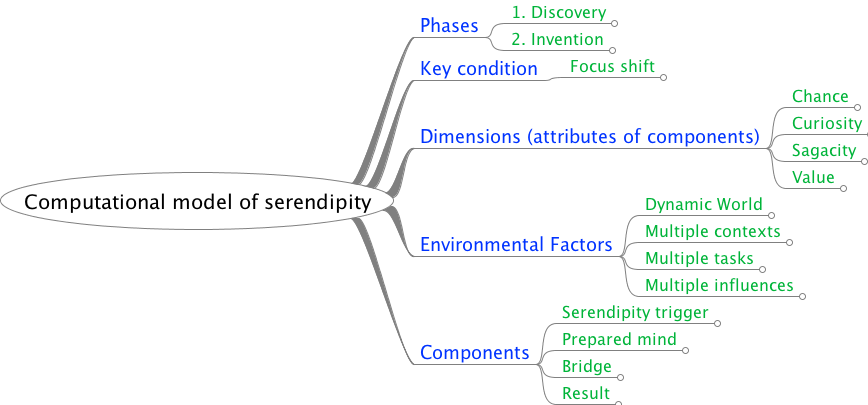
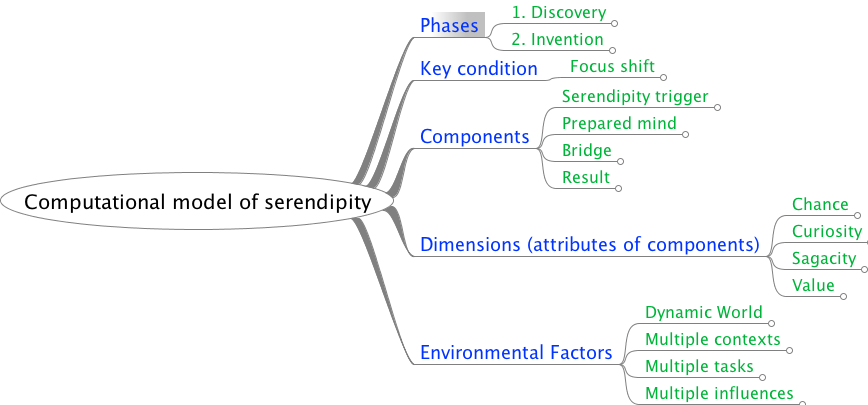
Thinking about the model as applied to case studies - new table suggested

diff --git a/figures/model-diagram/mm-model-diagram.mm b/figures/model-diagram/mm-model-diagram.mm
@@ -1,19 +1,19 @@
 <map version="1.0.1">
 <!-- To view this file, download free mind mapping software FreeMind from http://freemind.sourceforge.net -->
-<node COLOR="#000000" CREATED="1427368594535" ID="ID_364760231" MODIFIED="1427370880198" TEXT="Computational model of serendipity">
+<node COLOR="#000000" CREATED="1427368594535" ID="ID_364760231" MODIFIED="1427374772645" TEXT="Computational model of serendipity">
 <font NAME="SansSerif" SIZE="20"/>
 <hook NAME="accessories/plugins/AutomaticLayout.properties"/>
-<node COLOR="#0033ff" CREATED="1427368645022" ID="ID_1763127882" MODIFIED="1427370891360" POSITION="right" TEXT="Phases">
+<node COLOR="#0033ff" CREATED="1427368645022" ID="ID_1763127882" MODIFIED="1427374771070" POSITION="right" TEXT="Phases">
 <edge STYLE="sharp_bezier" WIDTH="8"/>
 <font NAME="SansSerif" SIZE="18"/>
-<node COLOR="#00b439" CREATED="1427368657607" ID="ID_892080896" MODIFIED="1427370897973" TEXT="1. Discovery">
+<node COLOR="#00b439" CREATED="1427368657607" FOLDED="true" ID="ID_892080896" MODIFIED="1427374741959" TEXT="1. Discovery">
 <edge STYLE="bezier" WIDTH="thin"/>
 <font NAME="SansSerif" SIZE="16"/>
 <node COLOR="#990000" CREATED="1427368679498" ID="ID_883697391" MODIFIED="1427370123744" TEXT="Within a system with a prepared mind, a previously uninteresting serendipity trigger arises due to circumstances that the system does not control, and is classified as interesting by the system">
 <font NAME="SansSerif" SIZE="14"/>
 </node>
 </node>
-<node COLOR="#00b439" CREATED="1427368661125" ID="ID_205720238" MODIFIED="1427370897976" TEXT="2. Invention">
+<node COLOR="#00b439" CREATED="1427368661125" FOLDED="true" ID="ID_205720238" MODIFIED="1427374741470" TEXT="2. Invention">
 <edge STYLE="bezier" WIDTH="thin"/>
 <font NAME="SansSerif" SIZE="16"/>
 <node COLOR="#990000" CREATED="1427368692002" ID="ID_679213768" MODIFIED="1427370123755" TEXT="The system, by subsequently processing this trigger and background information together with relevant reasoning, networking, or experimental techniques, obtains a novel result that is evaluated favourably by the system or by external sources.">
@@ -21,10 +21,10 @@
 </node>
 </node>
 </node>
-<node COLOR="#0033ff" CREATED="1427368737682" ID="ID_1891987818" MODIFIED="1427370891361" POSITION="right" TEXT="Key condition">
+<node COLOR="#0033ff" CREATED="1427368737682" ID="ID_1891987818" MODIFIED="1427374740871" POSITION="right" TEXT="Key condition">
 <edge STYLE="sharp_bezier" WIDTH="8"/>
 <font NAME="SansSerif" SIZE="18"/>
-<node COLOR="#00b439" CREATED="1427368746848" ID="ID_615978599" MODIFIED="1427370897979" TEXT="Focus shift">
+<node COLOR="#00b439" CREATED="1427368746848" FOLDED="true" ID="ID_615978599" MODIFIED="1427374742607" TEXT="Focus shift">
 <edge STYLE="bezier" WIDTH="thin"/>
 <font NAME="SansSerif" SIZE="16"/>
 <node COLOR="#990000" CREATED="1427369497785" ID="ID_1348552907" MODIFIED="1427370123765" TEXT="a reassessment or reevaluation -- a \emph{focus shift} in which something that was previously uninteresting, of neutral, or even negative value, becomes interesting.">
@@ -32,7 +32,39 @@
 </node>
 </node>
 </node>
-<node COLOR="#0033ff" CREATED="1427368709710" ID="ID_563045342" MODIFIED="1427370891364" POSITION="right">
+<node COLOR="#0033ff" CREATED="1427369178393" ID="ID_1382365722" MODIFIED="1427374744353" POSITION="right" TEXT="Components">
+<edge STYLE="sharp_bezier" WIDTH="8"/>
+<font NAME="SansSerif" SIZE="18"/>
+<node COLOR="#00b439" CREATED="1427368740895" FOLDED="true" ID="ID_486420315" MODIFIED="1427374745212" TEXT="Serendipity trigger">
+<edge STYLE="bezier" WIDTH="thin"/>
+<font NAME="SansSerif" SIZE="16"/>
+<node COLOR="#990000" CREATED="1427369610358" ID="ID_1984392591" MODIFIED="1427370123831" TEXT="The trigger does not directly cause the outcome, but rather, inspires a new insight.  ">
+<font NAME="SansSerif" SIZE="14"/>
+</node>
+</node>
+<node COLOR="#00b439" CREATED="1427368791183" FOLDED="true" ID="ID_1983960627" MODIFIED="1427374745685" TEXT="Prepared mind">
+<edge STYLE="bezier" WIDTH="thin"/>
+<font NAME="SansSerif" SIZE="16"/>
+<node COLOR="#990000" CREATED="1427369624666" ID="ID_647400017" MODIFIED="1427370123833" TEXT="Creating an atmosphere that is prepared for serendipity">
+<font NAME="SansSerif" SIZE="14"/>
+</node>
+</node>
+<node COLOR="#00b439" CREATED="1427368798018" FOLDED="true" ID="ID_290478461" MODIFIED="1427374746269" TEXT="Bridge">
+<edge STYLE="bezier" WIDTH="thin"/>
+<font NAME="SansSerif" SIZE="16"/>
+<node COLOR="#990000" CREATED="1427369512214" ID="ID_223257269" MODIFIED="1427370123834" TEXT="Building a bridge to take us from the focus shift occurrence to a valuable result">
+<font NAME="SansSerif" SIZE="14"/>
+</node>
+</node>
+<node COLOR="#00b439" CREATED="1427368801269" FOLDED="true" ID="ID_1993966731" MODIFIED="1427374746622" TEXT="Result">
+<edge STYLE="bezier" WIDTH="thin"/>
+<font NAME="SansSerif" SIZE="16"/>
+<node COLOR="#990000" CREATED="1427369568148" ID="ID_1649816839" MODIFIED="1427370123836" TEXT="The results that are produced through serendipity">
+<font NAME="SansSerif" SIZE="14"/>
+</node>
+</node>
+</node>
+<node COLOR="#0033ff" CREATED="1427368709710" ID="ID_563045342" MODIFIED="1427374747155" POSITION="right">
 <richcontent TYPE="NODE"><html>
   <head>
     
@@ -46,14 +78,14 @@
 </richcontent>
 <edge STYLE="sharp_bezier" WIDTH="8"/>
 <font NAME="SansSerif" SIZE="18"/>
-<node COLOR="#00b439" CREATED="1427368876272" ID="ID_661232882" MODIFIED="1427370897980" TEXT="Chance">
+<node COLOR="#00b439" CREATED="1427368876272" FOLDED="true" ID="ID_661232882" MODIFIED="1427374751573" TEXT="Chance">
 <edge STYLE="bezier" WIDTH="thin"/>
 <font NAME="SansSerif" SIZE="16"/>
 <node COLOR="#990000" CREATED="1427369739097" ID="ID_698673658" MODIFIED="1427370123775" TEXT="How likely was the trigger to appear?">
 <font NAME="SansSerif" SIZE="14"/>
 </node>
 </node>
-<node COLOR="#00b439" CREATED="1427368811666" ID="ID_568386286" MODIFIED="1427370897983" TEXT="Curiosity">
+<node COLOR="#00b439" CREATED="1427368811666" FOLDED="true" ID="ID_568386286" MODIFIED="1427374748460" TEXT="Curiosity">
 <edge STYLE="bezier" WIDTH="thin"/>
 <font NAME="SansSerif" SIZE="16"/>
 <node COLOR="#990000" CREATED="1427369743751" ID="ID_1080625648" MODIFIED="1427370123779">
@@ -71,14 +103,14 @@
 <font NAME="SansSerif" SIZE="14"/>
 </node>
 </node>
-<node COLOR="#00b439" CREATED="1427368840137" ID="ID_710011933" MODIFIED="1427370897984" TEXT="Sagacity">
+<node COLOR="#00b439" CREATED="1427368840137" FOLDED="true" ID="ID_710011933" MODIFIED="1427374752829" TEXT="Sagacity">
 <edge STYLE="bezier" WIDTH="thin"/>
 <font NAME="SansSerif" SIZE="16"/>
 <node COLOR="#990000" CREATED="1427369757879" ID="ID_1442391053" MODIFIED="1427370123782" TEXT="How likely was it that the interesting trigger would be turned into a result?">
 <font NAME="SansSerif" SIZE="14"/>
 </node>
 </node>
-<node COLOR="#00b439" CREATED="1427368889659" ID="ID_1513225833" MODIFIED="1427370897985" TEXT="Value">
+<node COLOR="#00b439" CREATED="1427368889659" FOLDED="true" ID="ID_1513225833" MODIFIED="1427374753509" TEXT="Value">
 <edge STYLE="bezier" WIDTH="thin"/>
 <font NAME="SansSerif" SIZE="16"/>
 <node COLOR="#990000" CREATED="1427369793028" ID="ID_859187980" MODIFIED="1427370123784" TEXT="How valuable is the result that is ultimately produced?">
@@ -86,10 +118,10 @@
 </node>
 </node>
 </node>
-<node COLOR="#0033ff" CREATED="1427368715182" ID="ID_279544910" MODIFIED="1427370891367" POSITION="right" TEXT="Environmental Factors">
+<node COLOR="#0033ff" CREATED="1427368715182" ID="ID_279544910" MODIFIED="1427374755052" POSITION="right" TEXT="Environmental Factors">
 <edge STYLE="sharp_bezier" WIDTH="8"/>
 <font NAME="SansSerif" SIZE="18"/>
-<node COLOR="#00b439" CREATED="1427368847612" ID="ID_1712639855" MODIFIED="1427370897989" TEXT="Dynamic World">
+<node COLOR="#00b439" CREATED="1427368847612" FOLDED="true" ID="ID_1712639855" MODIFIED="1427374756549" TEXT="Dynamic World">
 <edge STYLE="bezier" WIDTH="thin"/>
 <font NAME="SansSerif" SIZE="16"/>
 <node COLOR="#990000" CREATED="1427369822301" ID="ID_1679175939" MODIFIED="1427370123793">
@@ -107,56 +139,24 @@
 <font NAME="SansSerif" SIZE="14"/>
 </node>
 </node>
-<node COLOR="#00b439" CREATED="1427368852359" ID="ID_781426624" MODIFIED="1427370897992" TEXT="Multiple contexts">
+<node COLOR="#00b439" CREATED="1427368852359" FOLDED="true" ID="ID_781426624" MODIFIED="1427374757276" TEXT="Multiple contexts">
 <edge STYLE="bezier" WIDTH="thin"/>
 <font NAME="SansSerif" SIZE="16"/>
 <node COLOR="#990000" CREATED="1427369873024" ID="ID_1544375421" MODIFIED="1427370123811" TEXT="One of the dynamical aspects at play may be the discoverer going back and forth between different contexts, with different stimuli.  ">
 <font NAME="SansSerif" SIZE="14"/>
 </node>
 </node>
-<node COLOR="#00b439" CREATED="1427368864221" ID="ID_1737264918" MODIFIED="1427370897994" TEXT="Multiple tasks">
+<node COLOR="#00b439" CREATED="1427368864221" FOLDED="true" ID="ID_1737264918" MODIFIED="1427374766079" TEXT="Multiple tasks">
 <edge STYLE="bezier" WIDTH="thin"/>
 <font NAME="SansSerif" SIZE="16"/>
 <node COLOR="#990000" CREATED="1427369899053" ID="ID_127969345" MODIFIED="1427370123822" TEXT="Even within what would typically be seen as a single context, a discoverer may take on multiple tasks that segment the context into sub-contexts, or that cause the investigator to look in more than one direction. The tasks may have an interesting overlap, or they may point to a gap in knowledge.">
 <font NAME="SansSerif" SIZE="14"/>
 </node>
 </node>
-<node COLOR="#00b439" CREATED="1427368867172" ID="ID_267511179" MODIFIED="1427370897995" TEXT="Multiple influences">
+<node COLOR="#00b439" CREATED="1427368867172" FOLDED="true" ID="ID_267511179" MODIFIED="1427374766709" TEXT="Multiple influences">
 <edge STYLE="bezier" WIDTH="thin"/>
 <font NAME="SansSerif" SIZE="16"/>
 <node COLOR="#990000" CREATED="1427370072107" ID="ID_1031734537" MODIFIED="1427370123828" TEXT="The ``bridge&apos;&apos; from trigger to result is often found through a social network.">
-<font NAME="SansSerif" SIZE="14"/>
-</node>
-</node>
-</node>
-<node COLOR="#0033ff" CREATED="1427369178393" ID="ID_1382365722" MODIFIED="1427370891370" POSITION="right" TEXT="Components">
-<edge STYLE="sharp_bezier" WIDTH="8"/>
-<font NAME="SansSerif" SIZE="18"/>
-<node COLOR="#00b439" CREATED="1427368740895" ID="ID_486420315" MODIFIED="1427370897996" TEXT="Serendipity trigger">
-<edge STYLE="bezier" WIDTH="thin"/>
-<font NAME="SansSerif" SIZE="16"/>
-<node COLOR="#990000" CREATED="1427369610358" ID="ID_1984392591" MODIFIED="1427370123831" TEXT="The trigger does not directly cause the outcome, but rather, inspires a new insight.  ">
-<font NAME="SansSerif" SIZE="14"/>
-</node>
-</node>
-<node COLOR="#00b439" CREATED="1427368791183" ID="ID_1983960627" MODIFIED="1427370897997" TEXT="Prepared mind">
-<edge STYLE="bezier" WIDTH="thin"/>
-<font NAME="SansSerif" SIZE="16"/>
-<node COLOR="#990000" CREATED="1427369624666" ID="ID_647400017" MODIFIED="1427370123833" TEXT="Creating an atmosphere that is prepared for serendipity">
-<font NAME="SansSerif" SIZE="14"/>
-</node>
-</node>
-<node COLOR="#00b439" CREATED="1427368798018" ID="ID_290478461" MODIFIED="1427370897998" TEXT="Bridge">
-<edge STYLE="bezier" WIDTH="thin"/>
-<font NAME="SansSerif" SIZE="16"/>
-<node COLOR="#990000" CREATED="1427369512214" ID="ID_223257269" MODIFIED="1427370123834" TEXT="Building a bridge to take us from the focus shift occurrence to a valuable result">
-<font NAME="SansSerif" SIZE="14"/>
-</node>
-</node>
-<node COLOR="#00b439" CREATED="1427368801269" ID="ID_1993966731" MODIFIED="1427370897998" TEXT="Result">
-<edge STYLE="bezier" WIDTH="thin"/>
-<font NAME="SansSerif" SIZE="16"/>
-<node COLOR="#990000" CREATED="1427369568148" ID="ID_1649816839" MODIFIED="1427370123836" TEXT="The results that are produced through serendipity">
 <font NAME="SansSerif" SIZE="14"/>
 </node>
 </node>

diff --git a/cc-intro.tex b/cc-intro.tex
@@ -21,7 +21,7 @@ these ideas in the course of developing a new system design.
 
 \paragraph{Evolutionary music improvisation systems.}
 
-\citeA{jordanous10} reported a computational jazz improvisation system using genetic algorithms. Genetic algorithms, and evolutionary computing more generally, could encourage computational serendipity. We examine Jordanous's system (later given the name {\em GAmprovising} \cite{jordanous:12}) in the context of our model of computational serendipity: to what extent does GAmprovising model serendipity?
+\citeA{jordanous10} reported a computational jazz improvisation system using genetic algorithms. Genetic algorithms, and evolutionary computing more generally, could encourage computational serendipity. We examine Jordanous's system (later given the name {\em GAmprovising} \cite{jordanous:12}) as a case study for evolutionary computing in the context of our model of computational serendipity: to what extent does GAmprovising model serendipity?
 
 
 % \paragraph{{[}To add: HR.{]}}
@@ -91,3 +91,39 @@ psychology, and domain understanding.
 % As a general comment, we would say that this is largely how
 % \emph{research and development} of recommender systems works, but
 % without the same levels of system automony envisioned here.
+
+\begin{table}%[htdp]
+\caption{Summary of case studies as viewed with our computational serendipity model}
+\begin{center}
+\begin{tabular}{|c|l|l|}
+\hline
+{\textbf Model}  & Evolutionary Music & Recommender \\
+part & systems & systems \\
+\hline
+{\em Key Condition}  && \\
+Focus shift && \\
+\hline
+{\em Components} && \\
+Serendipity trigger & Input from user behaviour & \\
+Prepared mind  & Through user model/domain model & \\
+Bridge  & Elements identified outside clusters & \\
+Result & Dependent on organisation goals & \\
+\hline
+{\em Dimensions} && \\
+Chance && \\
+Curiosity && \\
+Sagacity && \\
+Value && \\
+\hline
+{\em Environmental} && \\
+{\em Factors} && \\
+Dynamic world && \\
+Multiple contexts && \\
+Multiple tasks && \\
+Multiple influences && \\
+\hline
+\end{tabular}
+\end{center}
+\label{caseStudies}
+\end{table}%
+
